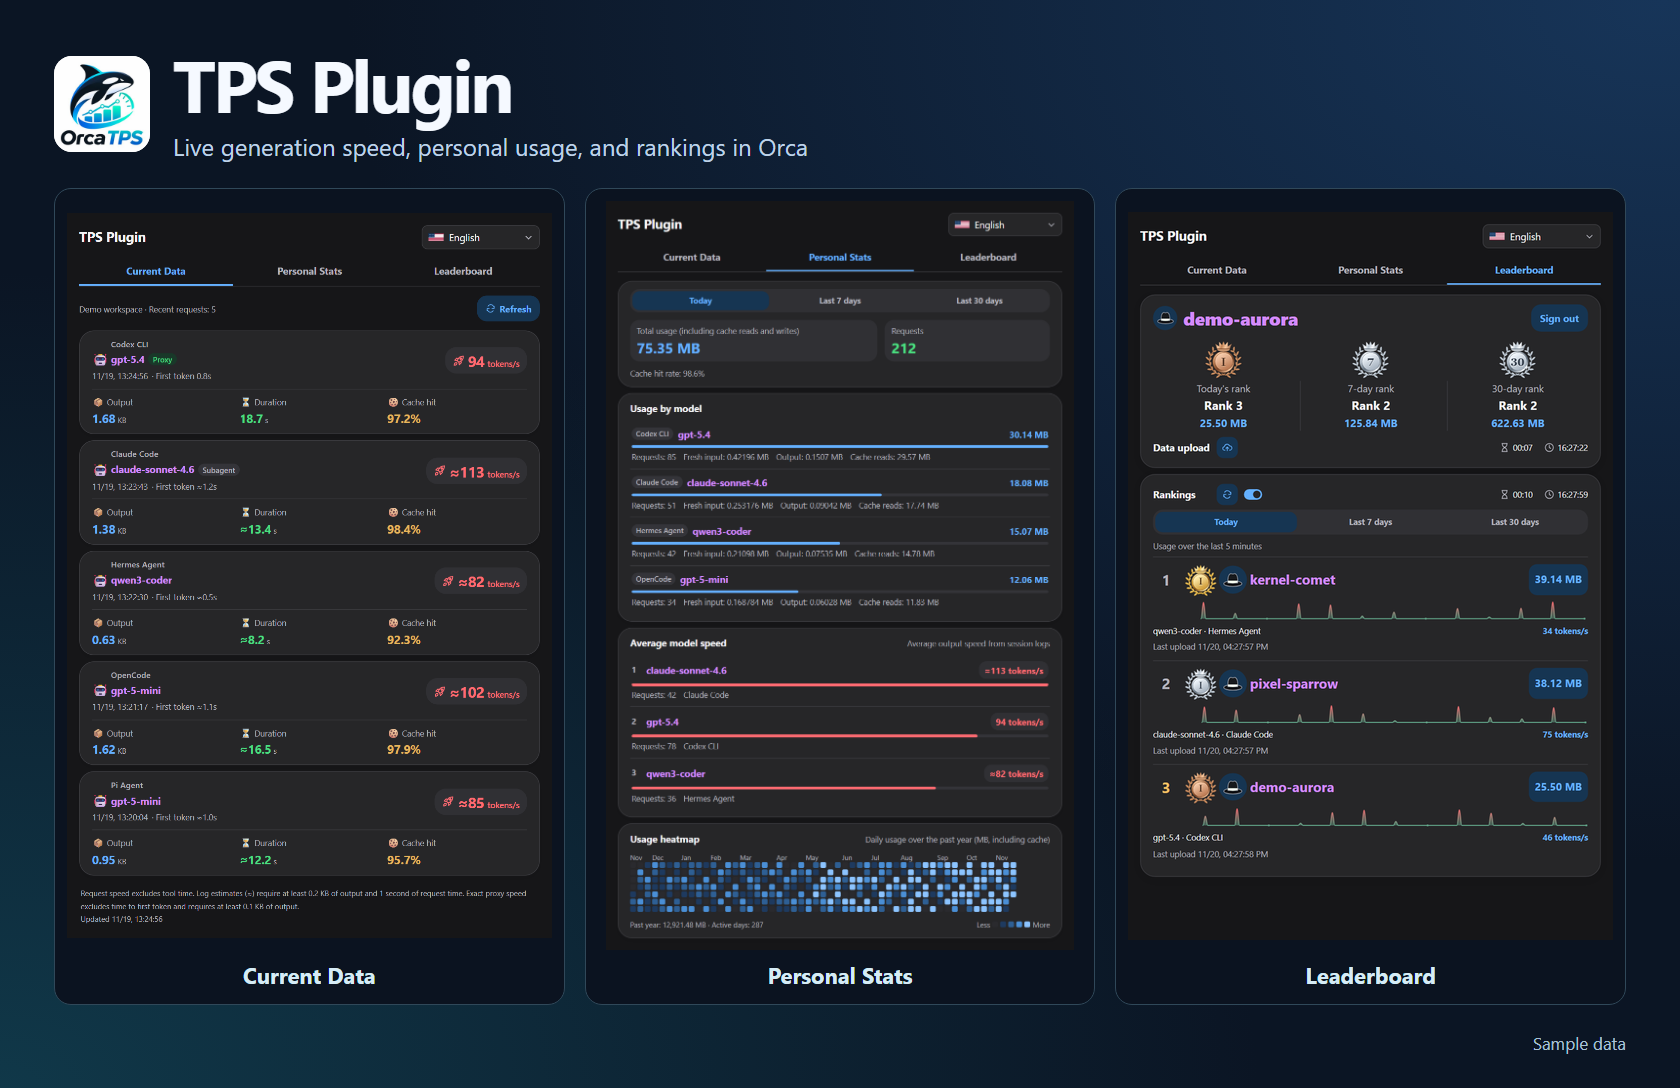
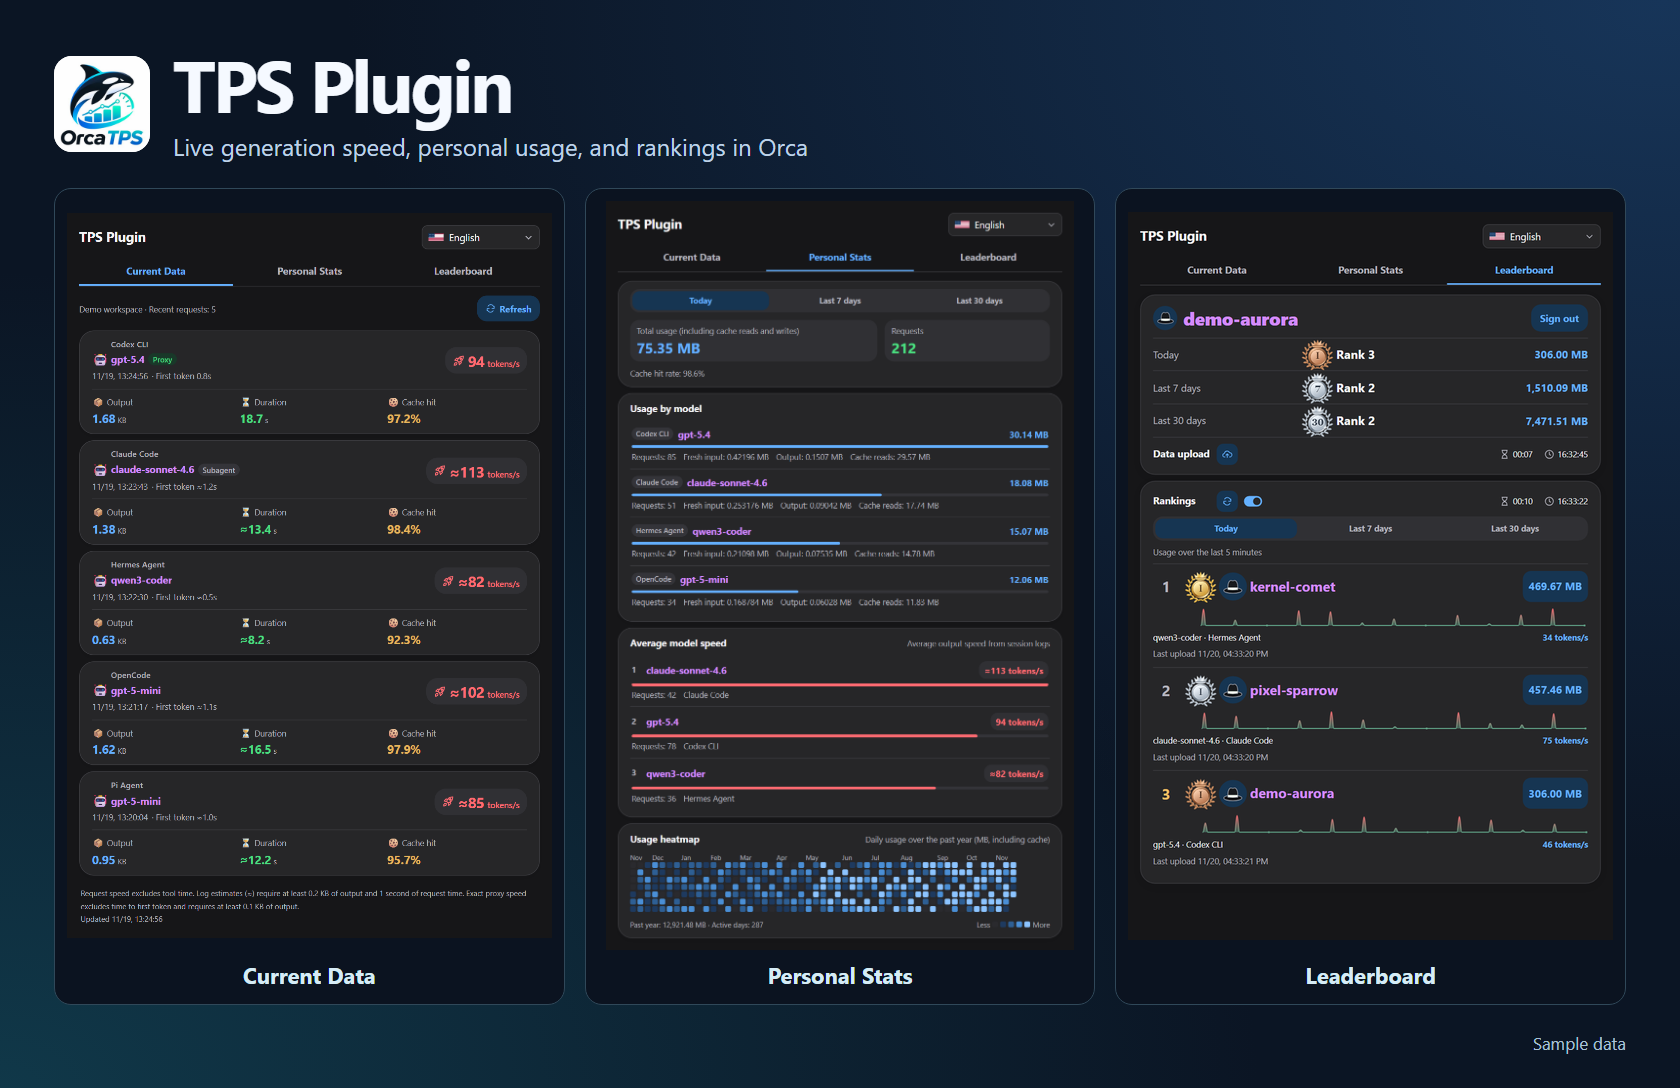
feat: display personal leaderboard stats in rows

diff --git a/src/panel.html b/src/panel.html
@@ -131,7 +131,7 @@
     .section-title { margin: 0; color: var(--ink); font-size: 13px; line-height: 1.6; font-weight: 700; }
     .section-detail { margin: 0; color: var(--muted); font-size: 11px; }
     .ladder-card { padding: 12px 16px; }
-    #leaderboard { --ladder-medal-size: 48px; }
+    #leaderboard { --ladder-medal-size: 48px; --ladder-medal-scale: .85; }
     .ladder-tabs { margin-top: 6px; }
     .ladder-actions { display: flex; flex-wrap: wrap; gap: 6px; align-items: center; min-width: 0; }
     .ladder-control { min-height: 36px; padding-inline: 12px; font-size: 13px; font-weight: 700; }
@@ -202,20 +202,24 @@
     .ladder-avatar img { display: block; width: 100%; height: 100%; object-fit: cover; }
     .ladder-avatar svg { display: block; width: 78%; height: 78%; }
     .ladder-account-name .ladder-avatar { width: 32px; height: 32px; }
-    .ladder-user-grid, .ladder-badges { display: grid; grid-template-columns: repeat(3, minmax(0, 1fr)); column-gap: 8px; }
-    .ladder-user-grid { margin-top: 12px; row-gap: 5px; align-items: start; }
-    .ladder-user-stat { min-width: 0; margin: 0; padding-inline: 2px; text-align: center; }
-    .ladder-user-stat + .ladder-user-stat { border-inline-start: 1px solid var(--line); }
-    .ladder-user-stat dt { color: var(--muted); font-size: 13px; }
-    .ladder-user-stat dd { margin: 1px 0 0; font-variant-numeric: tabular-nums; }
-    .ladder-user-rank { font-size: 16px; font-weight: 750; }
-    .ladder-user-tokens { color: var(--blue); font-size: 14px; font-weight: 650; overflow-wrap: anywhere; }
+    .ladder-user-stats { margin: 8px 0 0; border-block-start: 1px solid var(--line); }
+    .ladder-user-stat {
+      display: grid; grid-template-columns: minmax(0, .85fr) repeat(2, minmax(0, 1.4fr));
+      align-items: center; column-gap: 8px; min-height: 30px; padding-block: 1px;
+      border-block-end: 1px solid var(--line); line-height: 1.25;
+    }
+    .ladder-user-stat dt { color: var(--muted); font-size: 13px; overflow-wrap: anywhere; }
+    .ladder-user-stat dd { min-width: 0; margin: 0; font-variant-numeric: tabular-nums; }
+    .ladder-user-position { display: flex; justify-content: center; align-items: center; gap: 4px; }
+    .ladder-user-position .ladder-medal, .ladder-row-user .ladder-medal { zoom: var(--ladder-medal-scale); }
+    .ladder-user-rank { font-size: 16px; font-weight: 750; overflow-wrap: anywhere; }
+    .ladder-user-tokens { color: var(--blue); font-size: 14px; font-weight: 650; text-align: end; overflow-wrap: anywhere; }
     .ladder-mine {
       min-width: 0; margin: 0; color: var(--purple); font-size: 24px; font-weight: 800; line-height: 1.25;
       letter-spacing: -.3px; overflow: hidden; text-overflow: ellipsis; white-space: nowrap;
     }
-    .ladder-badges { grid-column: 1 / -1; }
-    .ladder-badge-slot { display: grid; place-items: center; min-height: var(--ladder-medal-size); }
+    .ladder-badge-slot { display: inline-flex; flex: none; }
+    .ladder-badge-slot:empty { display: none; }
     .ladder-medal {
       position: relative; display: inline-block; flex-shrink: 0;
       width: var(--ladder-medal-size); height: var(--ladder-medal-size);
@@ -310,8 +314,7 @@
     .ladder-rows { margin: 6px 0 0; padding: 0; list-style: none; }
     .ladder-rows:empty { margin: 0; }
     .ladder-rows li {
-      --ladder-row-medal-scale: .85;
-      --ladder-row-size: calc(var(--ladder-medal-size) * var(--ladder-row-medal-scale));
+      --ladder-row-size: calc(var(--ladder-medal-size) * var(--ladder-medal-scale));
       --ladder-row-gap: 8px;
       display: grid; grid-template-columns: auto var(--ladder-row-gap) minmax(0, 1fr) auto;
       grid-template-rows: var(--ladder-row-size) auto auto;
@@ -332,7 +335,6 @@
       --ladder-row-avatar-size: calc(var(--ladder-row-size) * .9);
       width: var(--ladder-row-avatar-size); height: var(--ladder-row-avatar-size);
     }
-    .ladder-row-user .ladder-medal { zoom: var(--ladder-row-medal-scale); }
     .ladder-name {
       min-width: 0; font-size: 18px; line-height: var(--ladder-row-size); color: var(--purple); font-weight: 750;
       overflow: hidden; text-overflow: ellipsis; white-space: nowrap;
@@ -460,8 +462,10 @@
       .speed-value { font-size: 17px; }
       .war, .heat, .ladder-card { padding-inline: 12px; }
       .ladder-mine { font-size: 22px; }
-      .ladder-user-grid, .ladder-badges { column-gap: 2px; }
-      .ladder-user-stat { padding-inline: 0; }
+      .ladder-user-stat { column-gap: 6px; }
+      .ladder-user-stat dt { font-size: 12px; }
+      #leaderboard { --ladder-medal-scale: .7; }
+      .ladder-user-rank, .ladder-user-tokens { font-size: 13px; }
       .ladder-toolbar {
         --ladder-toolbar-action-width: 24px;
         --ladder-toolbar-next-width: 42px;
@@ -470,7 +474,7 @@
       }
       .ladder-toolbar-field { gap: 3px; font-size: 10px; }
       .ladder-toolbar-field svg { width: 12px; height: 12px; }
-      .ladder-rows li { --ladder-row-medal-scale: .7; --ladder-row-gap: 6px; }
+      .ladder-rows li { --ladder-row-gap: 6px; }
       .war-totals { gap: 6px; }
       .war-value { font-size: 17px; }
       .ladder-total { padding-inline: 6px; font-size: 12px; }
@@ -528,22 +532,32 @@
             </div>
             <button class="refresh ladder-control" id="ladder-logout" type="button"><span data-i18n="sign-out"></span></button>
           </div>
-          <div class="ladder-user-grid" id="ladder-personal-ranks" data-i18n-aria-label="personal-ranking" hidden>
-            <div class="ladder-badges" id="ladder-medals" hidden>
-              <div class="ladder-badge-slot" id="ladder-user-badge-1"></div>
-              <div class="ladder-badge-slot" id="ladder-user-badge-7"></div>
-              <div class="ladder-badge-slot" id="ladder-user-badge-30"></div>
+          <dl class="ladder-user-stats" id="ladder-personal-ranks" data-i18n-aria-label="personal-ranking" hidden>
+            <div class="ladder-user-stat">
+              <dt data-i18n="today"></dt>
+              <dd class="ladder-user-position">
+                <span class="ladder-badge-slot" id="ladder-user-badge-1"></span>
+                <span class="ladder-user-rank" id="ladder-user-rank-1" data-localized-text>—</span>
+              </dd>
+              <dd class="ladder-user-tokens" id="ladder-user-tokens-1" data-i18n-title="daily-ranked-usage">—</dd>
             </div>
-            <dl class="ladder-user-stat"><dt><span data-i18n="daily-rank"></span></dt>
-              <dd class="ladder-user-rank" id="ladder-user-rank-1" data-localized-text>—</dd><dd class="ladder-user-tokens" id="ladder-user-tokens-1" data-i18n-title="daily-ranked-usage">—</dd>
-            </dl>
-            <dl class="ladder-user-stat"><dt><span data-i18n="weekly-rank"></span></dt>
-              <dd class="ladder-user-rank" id="ladder-user-rank-7" data-localized-text>—</dd><dd class="ladder-user-tokens" id="ladder-user-tokens-7" data-i18n-title="weekly-ranked-usage">—</dd>
-            </dl>
-            <dl class="ladder-user-stat"><dt><span data-i18n="monthly-rank"></span></dt>
-              <dd class="ladder-user-rank" id="ladder-user-rank-30" data-localized-text>—</dd><dd class="ladder-user-tokens" id="ladder-user-tokens-30" data-i18n-title="monthly-ranked-usage">—</dd>
-            </dl>
-          </div>
+            <div class="ladder-user-stat">
+              <dt data-i18n="last-seven-days"></dt>
+              <dd class="ladder-user-position">
+                <span class="ladder-badge-slot" id="ladder-user-badge-7"></span>
+                <span class="ladder-user-rank" id="ladder-user-rank-7" data-localized-text>—</span>
+              </dd>
+              <dd class="ladder-user-tokens" id="ladder-user-tokens-7" data-i18n-title="weekly-ranked-usage">—</dd>
+            </div>
+            <div class="ladder-user-stat">
+              <dt data-i18n="last-thirty-days"></dt>
+              <dd class="ladder-user-position">
+                <span class="ladder-badge-slot" id="ladder-user-badge-30"></span>
+                <span class="ladder-user-rank" id="ladder-user-rank-30" data-localized-text>—</span>
+              </dd>
+              <dd class="ladder-user-tokens" id="ladder-user-tokens-30" data-i18n-title="monthly-ranked-usage">—</dd>
+            </div>
+          </dl>
           <div class="ladder-toolbar ladder-upload-toolbar">
             <h2 class="section-title" data-i18n="data-upload" data-i18n-title="data-upload"></h2>
             <button class="refresh ladder-refresh" id="ladder-sync-now" type="button" data-i18n-aria-label="upload-now" data-i18n-title="upload-now">
@@ -1865,7 +1879,6 @@
         identity.title = username ?? '';
         setAvatar(element('account-avatar'), username);
         if (!rankingAccess) return;
-        let hasMedals = false;
         for (const period of periods) {
           const ranking = cachedRankings.get(period.days);
           const row = username && ranking?.day === renderedDay ? ranking.rows.find(row => row.username === username) : null;
@@ -1875,14 +1888,12 @@
           element('user-rank-' + period.days).textContent = row ? t('rank-position', locale.number(row.rank)) : '—';
           element('user-tokens-' + period.days).textContent = formatTokenMB(tokens);
           const place = row?.rank >= 1 && row.rank <= podium.length ? row.rank : 0;
-          if (place) hasMedals = true;
           const slot = element('user-badge-' + period.days);
           if (Number(slot.dataset.place ?? 0) === place) continue;
           slot.dataset.place = place;
           slot.querySelector('.ladder-medal')?.remove();
           if (place) slot.append(medal(place, period));
         }
-        element('medals').hidden = !hasMedals;
       }
 
       function countdownText(nextAt, time) {
